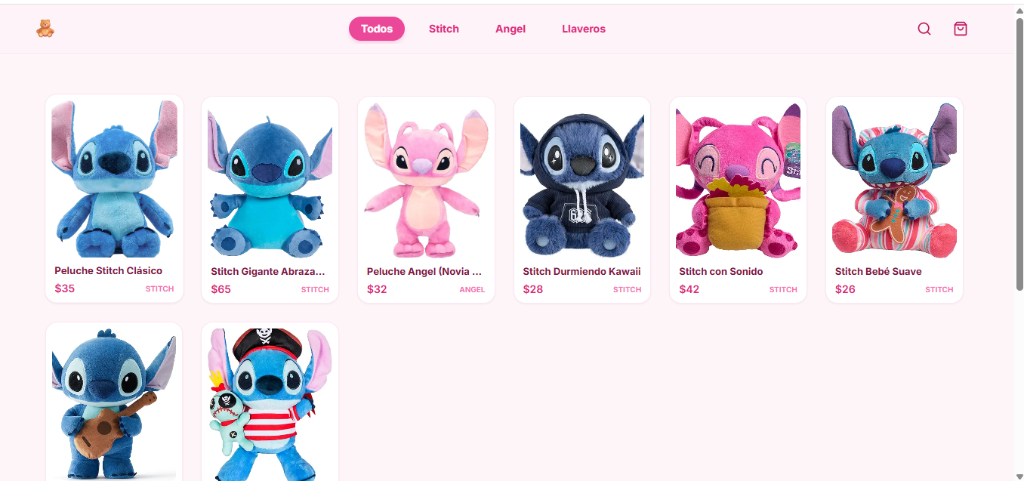
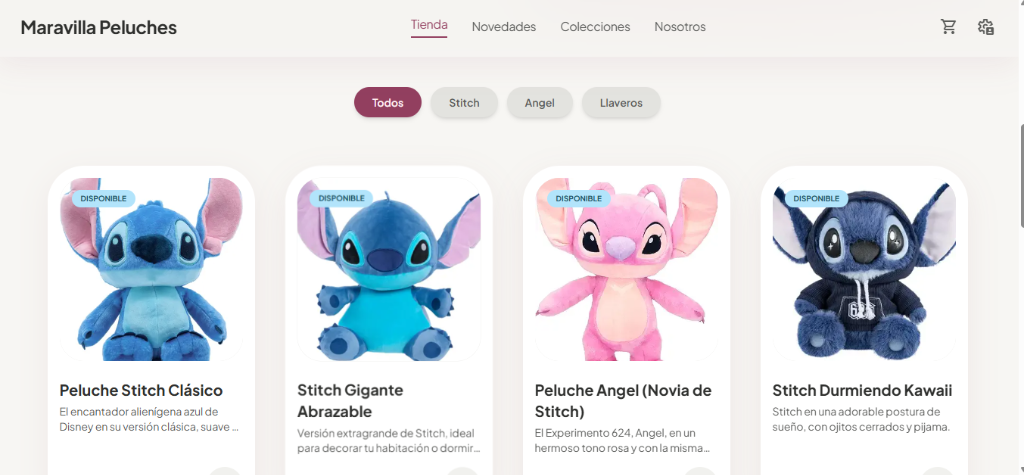
feat: add Monitor de Divisas project and update Maravilla Peluches screenshot

diff --git a/lib/portfolio-data.ts b/lib/portfolio-data.ts
@@ -8,14 +8,16 @@ import {
   Zap,
   Code,
   Smartphone,
-  PenTool
+  PenTool,
+  Activity
 } from 'lucide-react'
 
 export const translations = {
   en: {
     profile: {
-      title: 'Electronics Technician',
+      title: 'Electronics Technician & Full-Stack Developer',
       location: 'Caracas, Venezuela',
+      ageLabel: 'Age',
     },
     nav: {
       about: 'About',
@@ -32,20 +34,20 @@ export const translations = {
       servicesTitle: "What I'm Doing",
       services: [
         {
-          title: 'Electronic Systems Repair',
-          description: 'Expertise in diagnosing and repairing POS systems and complex electronic equipment.',
+          title: 'Data Analysis',
+          description: 'Transforming complex data into actionable insights for strategic decision making.',
         },
         {
-          title: 'Technical Analysis',
-          description: 'Analytical approach to operational processes and hardware configuration.',
+          title: 'Full-Stack Development',
+          description: 'Building robust, scalable web applications from end-to-end using modern technologies.',
         },
         {
-          title: 'Hardware Maintenance',
-          description: 'Preventive and corrective maintenance for industrial and digital mining machinery.',
+          title: 'PCB & Electronics Repair',
+          description: 'Expertise in component-level diagnosis and advanced repair of electronic boards.',
         },
         {
-          title: 'Electrical Technology',
-          description: 'Installation and maintenance of electrical systems, refrigeration, and air conditioning.',
+          title: 'Process Automation',
+          description: 'Optimizing workflows and organizational efficiency through digital tools and scripts.',
         },
       ],
       experienciaTitle: "Work Experience",
@@ -116,9 +118,6 @@ export const translations = {
       title: 'Portfolio',
       categoriesTrans: {
         all: 'All',
-        'web design': 'Web Design',
-        applications: 'Applications',
-        'ai assistant': 'AI Assistant',
         'web development': 'Web Development',
       },
       previewLabel: 'More info',
@@ -129,8 +128,7 @@ export const translations = {
         { title: 'AI Virtual Assistant', description: 'An advanced AI virtual assistant capable of natural language processing, answering complex queries, and task automation with a friendly personality.' },
         { title: 'Pos manager', description: 'Comprehensive Point of Sale management system for businesses, featuring inventory tracking and sales reports.' },
         { title: 'Maravilla Peluches', description: 'Online store for high-quality plush toys with a friendly interface and secure checkout.' },
-        { title: 'POS Diagnostic System', description: 'Implementation of a specialized diagnostic system for POS terminal maintenance.' },
-        { title: 'Mining Rig Optimization', description: 'Preventive maintenance plan for a digital mining equipment fleet.' },
+        { title: 'Currency Monitor & Dashboard', description: 'A high-end financial dashboard that tracks the Venezuelan Bolívar across multiple exchange rates (BCV, Paralelo, Binance P2P) with real-time updates and arbitrage analysis.' },
       ],
     },
     contact: {
@@ -155,8 +153,9 @@ export const translations = {
   },
   es: {
     profile: {
-      title: 'Técnico Electrónico',
+      title: 'Técnico en Electrónica y Desarrollador Full Stack',
       location: 'Caracas, Venezuela',
+      ageLabel: 'Edad',
     },
     nav: {
       about: 'Sobre mí',
@@ -173,20 +172,20 @@ export const translations = {
       servicesTitle: 'Lo que hago',
       services: [
         {
-          title: 'Reparación de Sistemas Electrónicos',
-          description: 'Experiencia en diagnóstico y reparación de sistemas POS y equipos electrónicos complejos.',
+          title: 'Análisis de Datos',
+          description: 'Transformación de datos complejos en información valiosa para la toma de decisiones.',
         },
         {
-          title: 'Análisis Técnico',
-          description: 'Enfoque analítico para procesos operativos y configuración de hardware.',
+          title: 'Desarrollo Front y Back',
+          description: 'Creación de aplicaciones web robustas y escalables de extremo a extremo.',
         },
         {
-          title: 'Mantenimiento de Hardware',
-          description: 'Mantenimiento preventivo y correctivo para maquinaria industrial y de minería digital.',
+          title: 'Reparación de Tarjetas Electrónicas',
+          description: 'Diagnóstico a nivel de componentes y reparación de tarjetas electrónicas.',
         },
         {
-          title: 'Tecnología Eléctrica',
-          description: 'Instalación y mantenimiento de sistemas eléctricos, refrigeración y aire acondicionado.',
+          title: 'Automatización de Procesos',
+          description: 'Optimización de flujos de trabajo mediante herramientas digitales y scripts.',
         },
       ],
       experienciaTitle: "Experiencia Laboral",
@@ -225,7 +224,7 @@ export const translations = {
         { title: 'Instituto Nacional de Capacitación y Educación Socialista (INCES)', description: 'Certificación de Electricista de Mantenimiento.' },
         { title: 'U.E Colegio Jardin Franciscano', description: 'Título de Bachiller.' },
       ],
-      experienceLabel: 'Experiencia',
+      experienceLabel: 'Experiencia laboral',
       experience: [
         { title: 'Analista de Servicio Técnico - VA & Technology', description: 'Responsable de la reparación y mantenimiento de sistemas de puntos de venta (POS).' },
         { title: 'Técnico de Reparación de Equipos de Minería - Cryptonica', description: 'Reparación, instalación y mantenimiento de equipos de minería digital.' },
@@ -257,9 +256,6 @@ export const translations = {
       title: 'Proyectos',
       categoriesTrans: {
         all: 'Todos',
-        'web design': 'Diseño Web',
-        applications: 'Aplicaciones',
-        'ai assistant': 'Asistente IA',
         'web development': 'Desarrollo Web',
       },
       previewLabel: 'Más información',
@@ -270,8 +266,7 @@ export const translations = {
         { title: 'Asistente Virtual IA', description: 'Un asistente virtual de IA avanzado capaz de procesar lenguaje natural, responder consultas complejas y automatizar tareas con una personalidad amigable.' },
         { title: 'Pos manager', description: 'Sistema integral de gestión de puntos de venta para empresas, con seguimiento de inventario y reportes de ventas.' },
         { title: 'Maravilla Peluches', description: 'Tienda en línea de peluches de alta calidad con una interfaz amigable y pago seguro.' },
-        { title: 'Sistema de Diagnóstico POS', description: 'Implementación de un sistema de diagnóstico especializado para el mantenimiento de terminales POS.' },
-        { title: 'Optimización de Rigs de Minería', description: 'Plan de mantenimiento preventivo para una flota de equipos de minería digital.' },
+        { title: 'Monitor de Divisas & Calculadora', description: 'Tablero financiero de alta gama para el seguimiento del valor del Bolívar frente a diversas divisas en tiempo real, con análisis de brecha cambiaria.' },
       ],
     },
     contact: {
@@ -298,10 +293,10 @@ export const translations = {
 
 export const profileData = {
   name: 'Eduardo Castillo',
-  title: 'Electronics Technician',
+  title: 'Técnico en Electrónica y Desarrollador Full Stack',
   avatar: '/eduardo-photo.png',
   email: 'edcastilloblanco@gmail.com',
-  birthday: '28 years',
+  age: '28 years',
   location: 'Caracas, Venezuela',
   social: {
     github: 'https://github.com/EDYCB2024',
@@ -312,24 +307,20 @@ export const profileData = {
 export const aboutData = {
   services: [
     {
-      icon: 'Zap',
-      title: 'Electronic Systems Repair',
-      description: 'Expertise in diagnosing and repairing POS systems and complex electronic equipment.',
+      icon: 'Activity',
+      title: 'Análisis de Datos',
     },
     {
       icon: 'Code',
-      title: 'Technical Analysis',
-      description: 'Analytical approach to operational processes and hardware configuration.',
+      title: 'Desarrollo Front y Back',
     },
     {
       icon: 'Smartphone',
-      title: 'Hardware Maintenance',
-      description: 'Preventive and corrective maintenance for industrial and digital mining machinery.',
+      title: 'Reparación de Tarjetas Electrónicas',
     },
     {
-      icon: 'PenTool',
-      title: 'Electrical Technology',
-      description: 'Installation and maintenance of electrical systems, refrigeration, and air conditioning.',
+      icon: 'Zap',
+      title: 'Automatización de Procesos',
     },
   ],
   experiencia: [
@@ -428,11 +419,11 @@ export const resumeData = {
 }
 
 export const portfolioData = {
-  categories: ['all', 'applications', 'ai assistant', 'web development'],
+  categories: ['all', 'web development'],
   projects: [
     {
       title: 'AI Virtual Assistant',
-      category: 'ai assistant',
+      category: 'web development',
       image: '/ai_assistant.png',
       description: 'An advanced AI virtual assistant capable of natural language processing, answering complex queries, and task automation with a friendly personality.',
       tech: ['Next.js', 'LangChain', 'OpenAI', 'TypeScript', 'Tailwind CSS'],
@@ -441,7 +432,7 @@ export const portfolioData = {
     },
     {
       title: 'Pos manager 2026',
-      category: 'applications',
+      category: 'web development',
       image: '/pos_manager_real.png',
       description: 'Comprehensive Point of Sale management system for businesses, featuring inventory tracking and sales reports.',
       tech: ['Next.js', 'Tailwind CSS', 'Supabase', 'SQL & PostgreSQL'],
@@ -450,30 +441,21 @@ export const portfolioData = {
     },
     {
       title: 'Maravilla Peluches',
-      category: 'applications',
+      category: 'web development',
       image: '/maravilla_peluches.png',
       description: 'Online store for high-quality plush toys with a friendly interface and secure checkout.',
       tech: ['Next.js', 'Tailwind CSS', 'Vercel'],
-      liveUrl: 'https://maravilla-peluches.vercel.app/',
+      liveUrl: 'https://maravilla-peluches-v2.vercel.app/',
       githubUrl: 'https://github.com/EDYCB2024/maravilla-peluches',
     },
     {
-      title: 'POS Diagnostic System',
-      category: 'applications',
-      image: 'https://images.unsplash.com/photo-1563986768609-322da13575f3?auto=format&fit=crop&q=80&w=800',
-      description: 'Implementation of a specialized diagnostic system for POS terminal maintenance.',
-      tech: ['Hardware', 'Analysis', 'Systems'],
-      liveUrl: '#',
-      githubUrl: '#',
-    },
-    {
-      title: 'Mining Rig Optimization',
+      title: 'Monitor de Divisas & Calculadora',
       category: 'web development',
-      image: 'https://images.unsplash.com/photo-1518770660439-4636190af475?auto=format&fit=crop&q=80&w=800',
-      description: 'Preventive maintenance plan for a digital mining equipment fleet.',
-      tech: ['Electronics', 'Maintenance', 'Planning'],
-      liveUrl: '#',
-      githubUrl: '#',
+      image: '/calculadora_divisas.png',
+      description: 'Calculadora en tiempo real para el valor del Bolívar frente a diferentes divisas, con múltiples tasas de referencia y soporte para Cashea.',
+      tech: ['Next.js', 'Tailwind CSS', 'Material Symbols', 'Vercel'],
+      liveUrl: 'https://calculadora-de-diferencias.vercel.app/',
+      githubUrl: 'https://github.com/EDYCB2024/CALCULADORA-DE-DIFERENCIAS',
     },
   ],
 }

diff --git a/app/page.tsx b/app/page.tsx
@@ -20,7 +20,7 @@ import {
 
 export default function Home() {
   const [activeSection, setActiveSection] = useState('about')
-  const [lang, setLang] = useState<'en' | 'es'>('en')
+  const [lang, setLang] = useState<'en' | 'es'>('es')
   const t = translations[lang]
 
   const navItems = ['about', 'resume', 'portfolio', 'blog', 'contact']
@@ -28,10 +28,10 @@ export default function Home() {
   // Pre-process data with translations
   const profileTranslated = { ...profileData, ...t.profile }
   const resumeTranslated = { ...resumeData, ...t.resume }
-  
+
   // Merge portfolio projects with translations to keep images and tech stack
-  const portfolioTranslated = { 
-    ...portfolioData, 
+  const portfolioTranslated = {
+    ...portfolioData,
     ...t.portfolio,
     projects: portfolioData.projects.map((p, i) => ({
       ...p,
@@ -40,7 +40,7 @@ export default function Home() {
   }
 
   const contactTranslated = { ...contactData, ...t.contact }
-  
+
   // Merge about data with translations
   const aboutTranslated = {
     ...aboutData,
@@ -75,8 +75,8 @@ export default function Home() {
                   key={section}
                   onClick={() => setActiveSection(section)}
                   className={`px-3 sm:px-4 py-2 rounded-lg text-xs sm:text-sm font-medium capitalize transition-colors whitespace-nowrap flex-shrink-0 ${activeSection === section
-                      ? 'text-foreground bg-accent/10'
-                      : 'text-muted-foreground hover:text-foreground hover:bg-secondary'
+                    ? 'text-foreground bg-accent/10'
+                    : 'text-muted-foreground hover:text-foreground hover:bg-secondary'
                     }`}
                 >
                   {t.nav[section as keyof typeof t.nav] || section}

diff --git a/components/profile-sidebar.tsx b/components/profile-sidebar.tsx
@@ -29,7 +29,7 @@ export function ProfileSidebar({ data, lang }: ProfileSidebarProps) {
         </div>
 
         <h1 className="text-xl md:text-2xl font-bold text-foreground mb-1">{data.name}</h1>
-        <p className="text-xs md:text-sm text-muted-foreground bg-secondary px-3 md:px-4 py-1 rounded-lg">
+        <p className="text-xs md:text-sm text-muted-foreground bg-secondary px-3 md:px-4 py-1 rounded-lg text-center">
           {data.title}
         </p>
       </div>
@@ -59,8 +59,8 @@ export function ProfileSidebar({ data, lang }: ProfileSidebarProps) {
             <Calendar className="w-5 h-5 text-accent" />
           </div>
           <div className="flex-1">
-            <p className="text-xs text-muted-foreground uppercase mb-1">{labels.birthday}</p>
-            <p className="text-sm text-foreground">{data.birthday}</p>
+            <p className="text-xs text-muted-foreground uppercase mb-1">{data.ageLabel || 'Age'}</p>
+            <p className="text-sm text-foreground">{data.age}</p>
           </div>
         </div>
 

diff --git a/components/about-section.tsx b/components/about-section.tsx
@@ -1,6 +1,6 @@
 'use client'
 
-import { PenTool, Code, Smartphone, Zap, Eye, ExternalLink, X, Briefcase, BookOpen } from 'lucide-react'
+import { PenTool, Code, Smartphone, Zap, Eye, ExternalLink, X, Briefcase, BookOpen, Activity } from 'lucide-react'
 import { useState } from 'react'
 
 interface AboutSectionProps {
@@ -16,6 +16,7 @@ export function AboutSection({ data }: AboutSectionProps) {
     Zap,
     Smartphone,
     PenTool,
+    Activity,
   }
 
   return (

diff --git a/app/layout.tsx b/app/layout.tsx
@@ -10,8 +10,8 @@ const poppins = Poppins({
 });
 
 export const metadata: Metadata = {
-  title: 'Eduardo Castillo - Full-Stack Developer',
-  description: 'Portfolio of John Doe, a Full-Stack Developer specializing in modern web technologies',
+  title: 'Eduardo Castillo - Desarrollador Full-Stack',
+  description: 'Portafolio de Eduardo Castillo, Desarrollador Full-Stack especializado en tecnologías web modernas',
   generator: 'v0.app',
   icons: {
     icon: [
